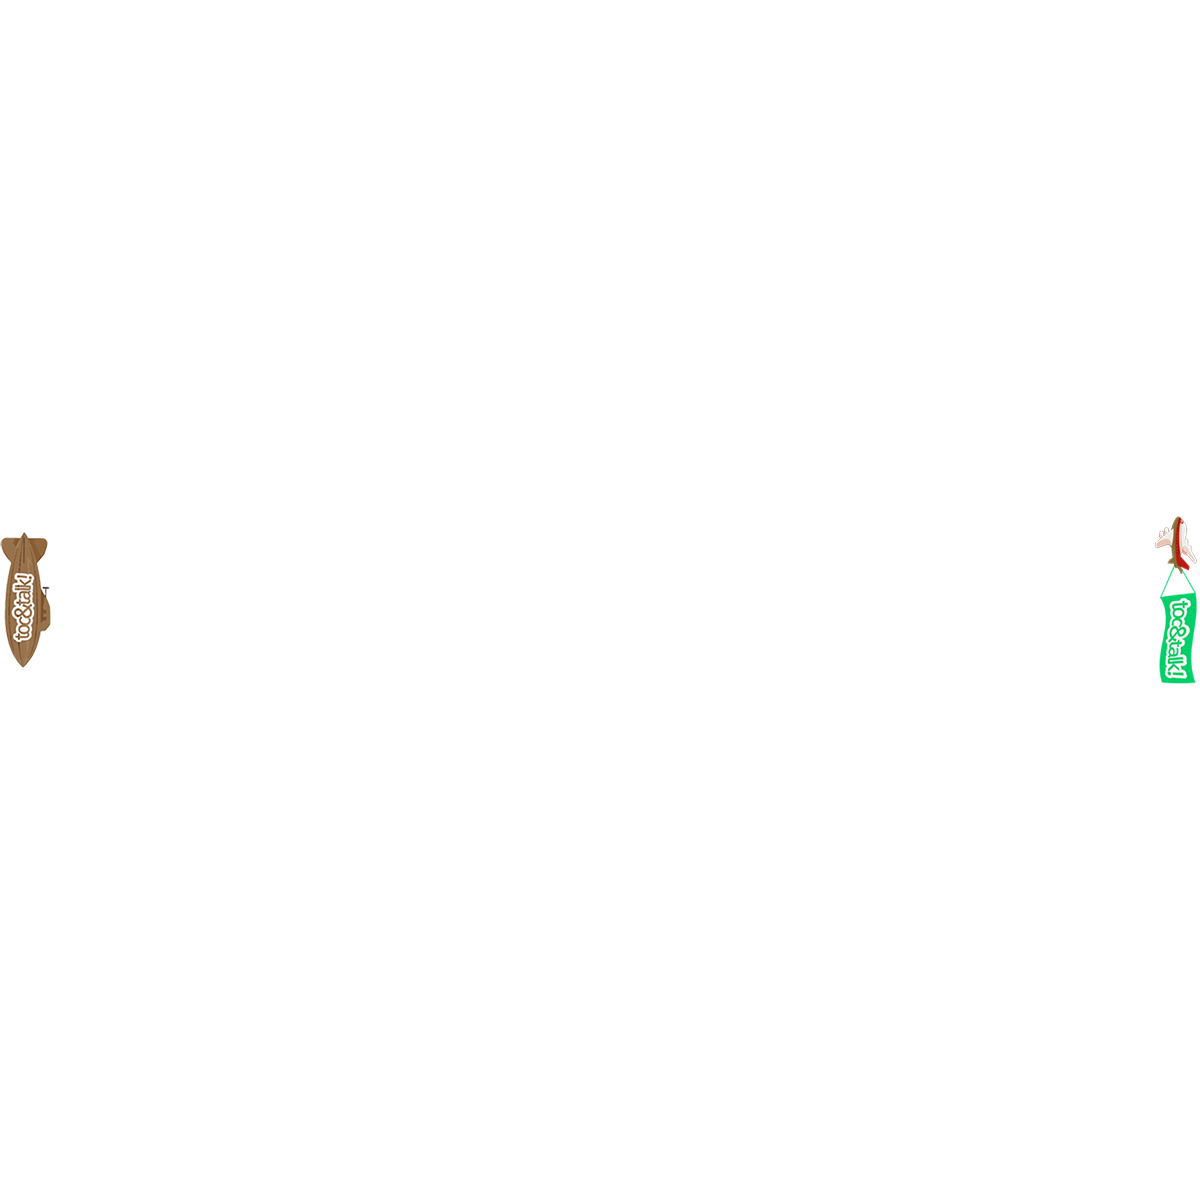
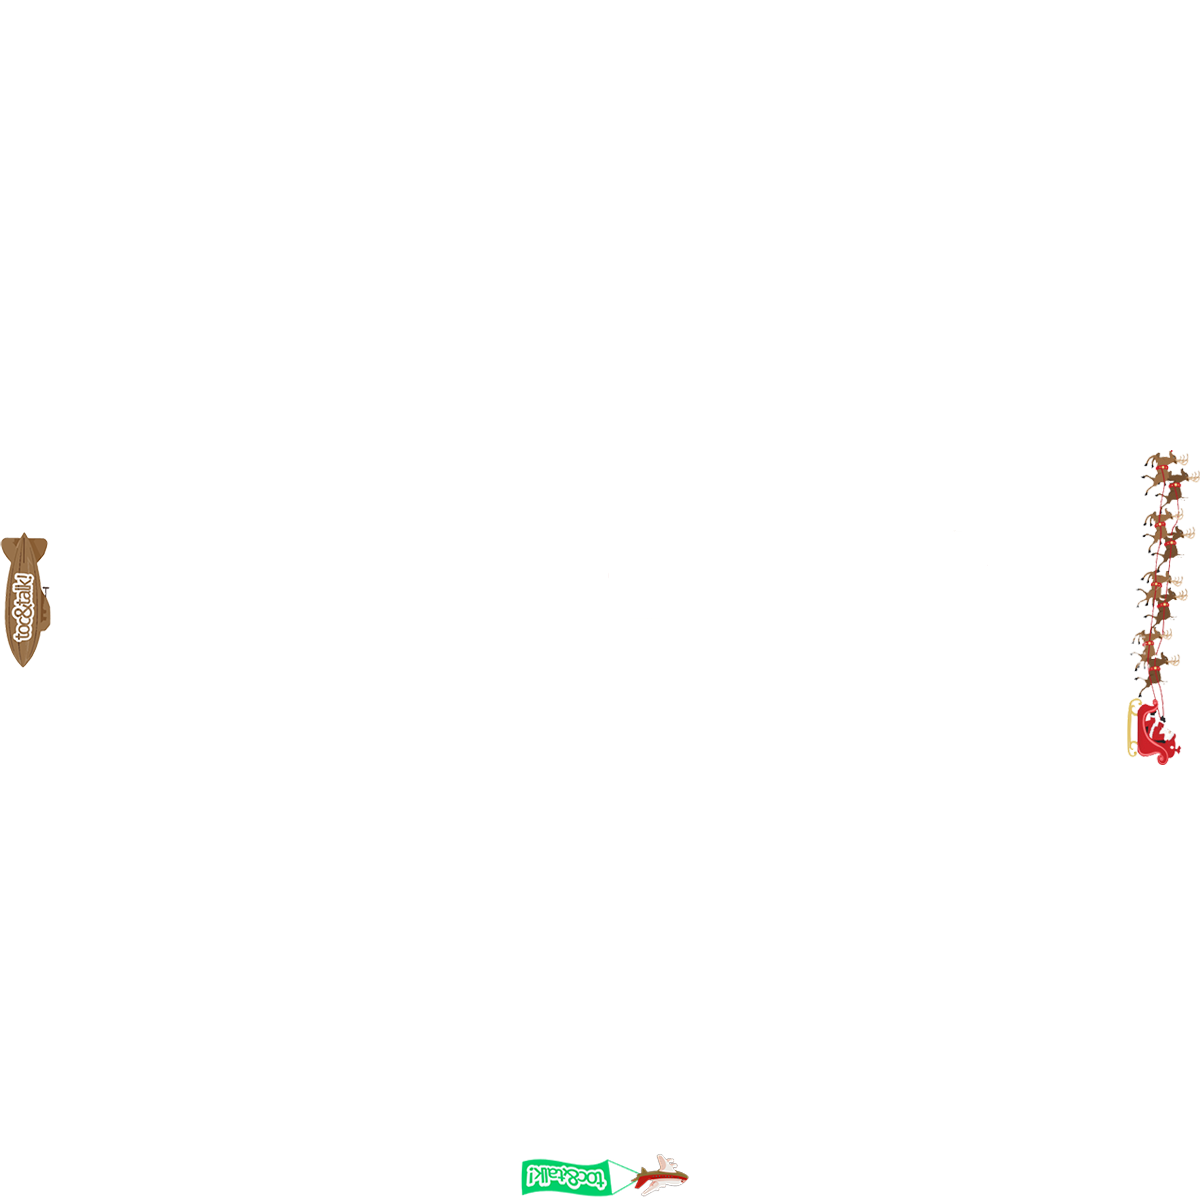
Toc&Talk navideño y otros

Changed region(s): [[0.925, 0.37, 1.0, 0.6475], [0.4317, 0.9558, 0.5858, 1.0]]

diff --git a/views/desktop/login/index.html b/views/desktop/login/index.html
@@ -145,7 +145,7 @@
 
     	<div id="portada">
     		<div id="portada-contenido">
-    			<image src="desktop/login/img/tocandtalk-logo.png" id="portada-logo"></image>
+    			<image src="desktop/login/img/tocandtalk-logo-navidad.png" id="portada-logo"></image>
     			<br>
 	    	</div>
 

diff --git a/views/desktop/login/css/login.css b/views/desktop/login/css/login.css
@@ -63,7 +63,8 @@ t3 {
 	width: 340px;
 	text-align: center;
 
-	margin-top: 240px;
+	margin-top: 260px;
+	/*margin-top: 240px;*/
 	margin-bottom: 15px;
 	padding-top: 18px;
 	padding-bottom: 12px;

diff --git a/views/desktop/login/css/cover.css b/views/desktop/login/css/cover.css
@@ -100,7 +100,8 @@
 	position: absolute;
 	display: inline-block;
 
-	margin-top: 64px;
+	/*margin-top: 64px;*/
+	margin-top: 20px;
 
 	text-align: center;
 }
